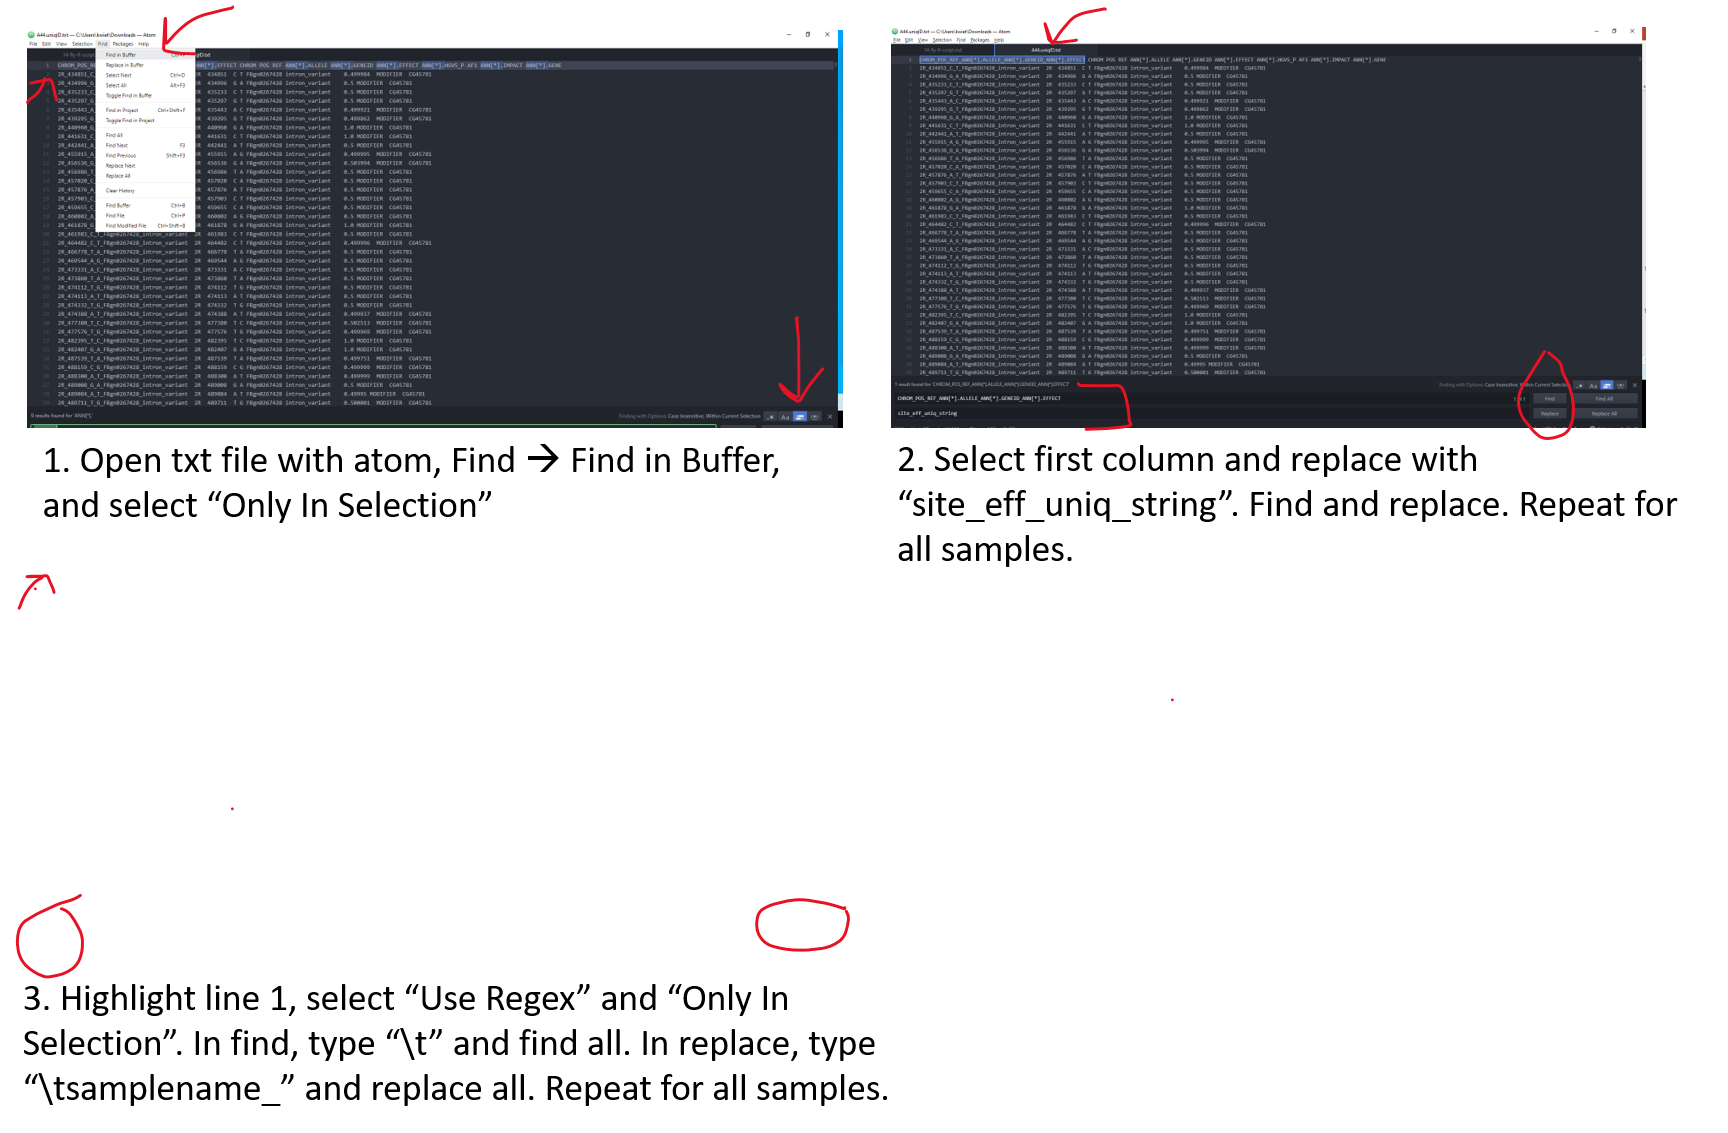
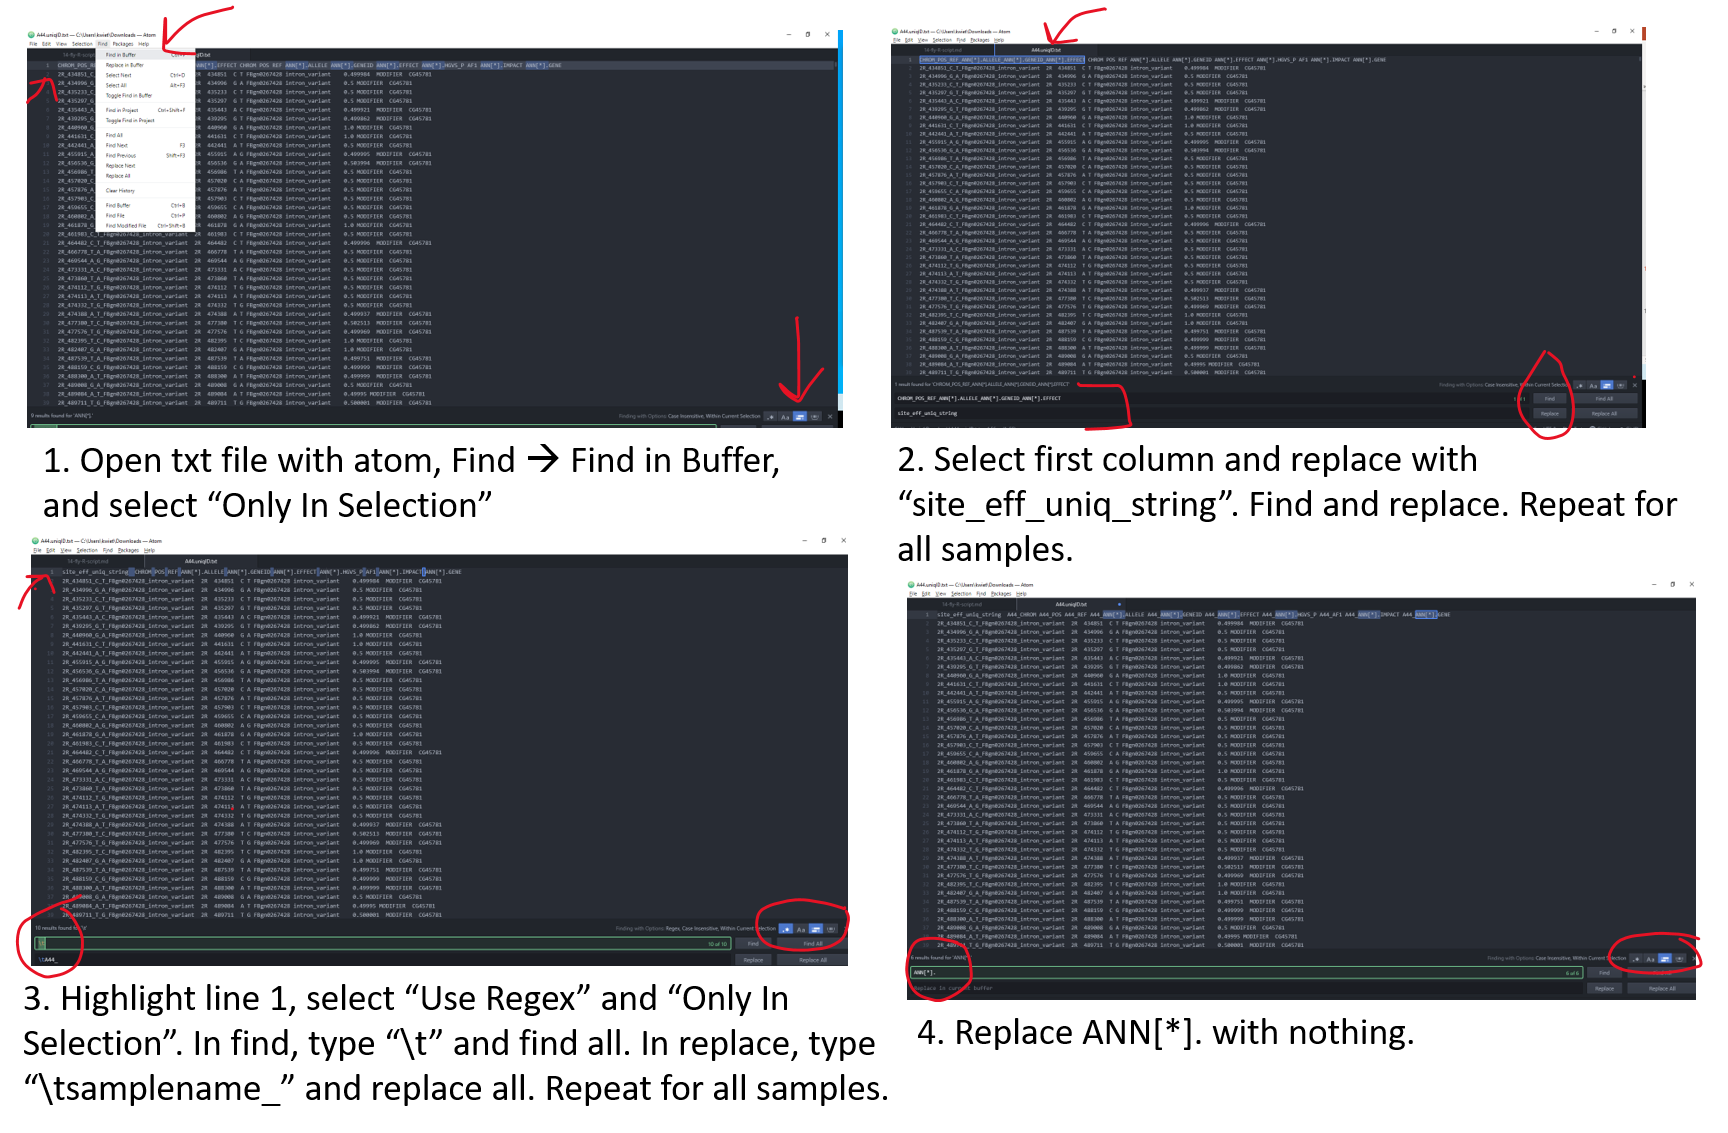
lesson 14 edits

diff --git a/_episodes/14-fly-R-script.md b/_episodes/14-fly-R-script.md
@@ -29,6 +29,7 @@ Download Rstudio:
 The final output of SnpEff and SnpSift generates a number of files. The file we need for our last analysis is the `*.uniqID.txt` for each of the 10 fly stocks. The first step will be to download them to your local machine in a new folder. We will be adding additional files to this folder. I have provided a video in Microsoft Stream describing these steps or follow Figure 1.
 
 ![Figure 1: Steps to move files to local machine from CyVerse](../img/move_files.png)
+Figure 1: Steps to move files to local machine from CyVerse.
 
 # Edit text files
 
@@ -53,6 +54,7 @@ site_eff_uniq_string	A44_CHROM	A44_POS	A44_REF	A44_ALLELE	A44_GENEID	A44_EFFECT	
 {: .output}
 
 ![Figure 2: Steps to edit column headers](../img/edit_text.png)
+Figure 2: Steps to edit column headers in Atom.
 
 # Open and load RStudio script
 
@@ -61,10 +63,13 @@ You should have already installed R and RStudio to your local machine. Additiona
 The next step is to open RStudio and create a New Project (Figure 3). Once the project is created you can open the `snpeff_bdgp6.Rmd` file which will load into your R project.
 
 ![Figure 3: Steps to launch new project in R studio](../img/R_project.png)
+Figure 3: Steps to launch a new project in RStudio.
 
 # Run the RStudio script
 
 The purpose of this R script is to obtain a list of unique SNPs present in each of the mutant fly stocks. The input files for this script will be the text files generated from the SnpSift script that was the last step in our variant calling workflow in JupyterLab. Let's break down what each chunk (the official term in R) of code is doing.
+
+Chunk 1 is just the title of our notebook and it's output format.
 
 ~~~
 ---
@@ -74,7 +79,10 @@ output: html_notebook
 ~~~
 {: .bash}
 
-Chunk 1 is just the title of our notebook and it's output format.
+Chunk 2 are three library's that are loaded into R to conduct our analysis. Below is a brief description of their functions. If R states you need to install updates, please do so.
+  -readr: The goal of 'readr' is to provide a fast and friendly way to read rectangular data (like 'csv', 'tsv', and 'fwf').
+  -dplyr: A package which provides a set of tools for efficiently manipulating datasets in R.
+  -tidyr: Ensures your data is tidy and states every column is a variable, every row is an observation, and every cell is a single value.
 
 ~~~
 ```{r mylibs}
@@ -86,12 +94,9 @@ library(tidyr)
 ~~~
 {: .bash}
 
-Chunk 2 are three library's that are loaded into R to conduct our analysis. Below is a brief description of their functions. If R states you need to install updates, please do so.
-  -readr: The goal of 'readr' is to provide a fast and friendly way to read rectangular data (like 'csv', 'tsv', and 'fwf').
-  -dplyr: A package which provides a set of tools for efficiently manipulating datasets in R.
-  -tidyr: Ensures your data is tidy and states every column is a variable, every row is an observation, and every cell is a single value.
-
 Hit the play button.
+
+Chunk 3 is our data importing chunk. R has an idea of where it is located just like our data structure in the terminal. Thus, if this R script is within the same folder as the `*.uniqID.txt` files, when this chunk is played, it should automatically be able to find the text files. Notice we are using `./` to indicate that the text files are "right here". If you start to receive any errors, one possibility is that your column headers aren't exactly as shown in the previous steps. Each of these chunks are written assuming the text headers as described in order to function.  
 
 ~~~
 ```{r importing}
@@ -110,9 +115,9 @@ frameN14<-read_tsv("./N-1-4_S5.uniqID.txt")
 ~~~
 {: .bash}
 
-Chunk 3 is our data importing chunk. R has an idea of where it is located just like our data structure in the terminal. Thus, if this R script is within the same folder as the `*.uniqID.txt` files, when this chunk is played, it should automatically be able to find the text files. Notice we are using `./` to indicate that the text files are "right here". If you start to receive any errors, one possibility is that your column headers aren't exactly as shown in the previous steps. Each of these chunks are written assuming the text headers as described in order to function.  
-
 Hit the play button.  
+
+Chunk 4. We have named this chunk mega join, because we are joining all of the SNPs that were generated from our previous outputs. We are doing this by using the first column of each file (`site_eff_uniq_string`). This will generate an `all_genic_snps.tsv` file that will display what reference nucleotide (Ref = genomic reference) and mutant nucleotide (Allele = mutant stock) was identified for a specific genomic location from all of the fly stocks. If there is a difference in nucleotides at a specific genomic location, the Ref and Allele columns will display different nucleotides. If no nucleotides are displayed in these columns for a specific fly stock, that means there was no difference in nucleotides between Ref and Allele at those specific locations. This will be a very large file, but you can take a peak at it within R itself. The primary purpose of this step is to organize all of the 10 fly stocks in comparison to one another so that we can pull out only the SNPs that are unique to a single stock.  
 
 ~~~
 ```{r mega_join}
@@ -130,11 +135,12 @@ all_snp_frames <- frameA44 %>%
 ~~~
 {: .bash}
 
-Chunk 4. We have named this chunk mega join, because we are joining all of the SNPs that were generated from our previous outputs. We are doing this by using the first column of each file (`site_eff_uniq_string`). This will generate an `all_genic_snps.tsv` file that will display what reference nucleotide (Ref = genomic reference) and mutant nucleotide (Allele = mutant stock) was identified for a specific genomic location from all of the fly stocks. If there is a difference in nucleotides at a specific genomic location, the Ref and Allele columns will display different nucleotides. If no nucleotides are displayed in these columns for a specific fly stock, that means there was no difference in nucleotides between Ref and Allele at those specific locations. This will be a very large file, but you can take a peak at it within R itself. The primary purpose of this step is to organize all of the 10 fly stocks in comparison to one another so that we can pull out only the SNPs that are unique to a single stock.   
-
-![Figure 4: Steps to launch new project in R studio](../img/all_snps.png)
-
 Hit the play button.
+
+![Figure 4: Example of all snps](../img/all_snps.png)
+Figure 4: Example of how to view the all_snps.
+
+Chunk 5 conducts pair-wise comparisons between the first stock listed (i.e. uniq2_A44) to each of the other 9 fly stocks. This will ultimately generate a list of SNPs that are present only in this particular stock (i.e. mutant stock A44).
 
 ~~~
 ```{r}
@@ -152,9 +158,9 @@ uniq2_N14<-all_snp_frames %>% filter(is.na(Control_POS),is.na(cos2_POS),is.na(H2
 ~~~
 {: .bash}
 
-Chunk 5 conducts pair-wise comparisons between the first stock listed (i.e. uniq2_A44) to each of the other 9 fly stocks. This will ultimately generate a list of SNPs that are present only in this particular stock (i.e. mutant stock A44).
-
 Hit the play button.
+
+Chunk 6 exports the data to a tab-delimited format that you can open in excel using the default prompts. After you hit the play button you should see new files in the folder that the original text files are in. I suggest opening excel and then opening each of the files from there. Give yourself a big pat on the back as you have just finished the bioinformatics analysis pipeline in our quest to identify the causative SNP in each of the fly mutants!
 
 ~~~
 ```{r}
@@ -173,6 +179,6 @@ all_snp_frames %>% write_tsv("./all_genic_snps_all.tsv")
 ~~~
 {: .bash}
 
-Chunk 6 exports the data to a tab-delimited format that you can open in excel using the default prompts. After you hit the play button you should see new files in the folder that the original text files are in. I suggest opening excel and then opening each of the files from there. Give yourself a big pat on the back as you have just finished the bioinformatics analysis pipeline in our quest to identify the causative SNP in each of the fly mutants!
+Hit the play button.
 
 **But now what?!?!**
